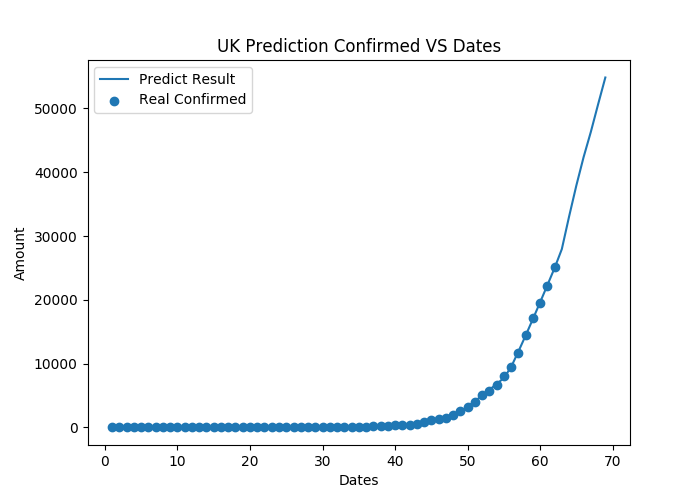
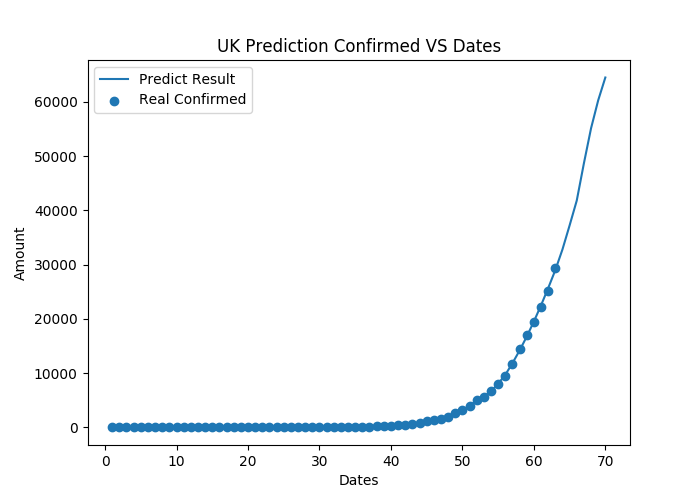
update prediction

diff --git a/mlp_uk.py b/mlp_uk.py
@@ -145,7 +145,7 @@ for each in each_data:
     uk_comfirmed_data.append(each['confirmed'])
 
 # add uk latest data manually
-uk_comfirmed_data.append(25150)
+uk_comfirmed_data.append(29474)
 
 uk_date_length = len(uk_comfirmed_data)
 uk_dates = list(range(1, uk_date_length + 1))
@@ -154,12 +154,12 @@ uk_comfirmed_data = np.array(uk_comfirmed_data)
 uk_dates = np.array(uk_dates)
 
 # increase absorb value
-uk_absorb_amount = uk_comfirmed_data[uk_date_length-1]*1.7
+uk_absorb_amount = uk_comfirmed_data[uk_date_length-1]*1.85
 
 uk_comfirmed_data_norm = uk_comfirmed_data / uk_absorb_amount
 
 # fit model
-model.fit(uk_dates, uk_comfirmed_data_norm, epochs=25000, shuffle=False)
+model.fit(uk_dates, uk_comfirmed_data_norm, epochs=27000, shuffle=False)
 
 uk_comfirmed_data_predict = model.predict(uk_dates)
 uk_comfirmed_data_predict = uk_comfirmed_data_predict * uk_absorb_amount
